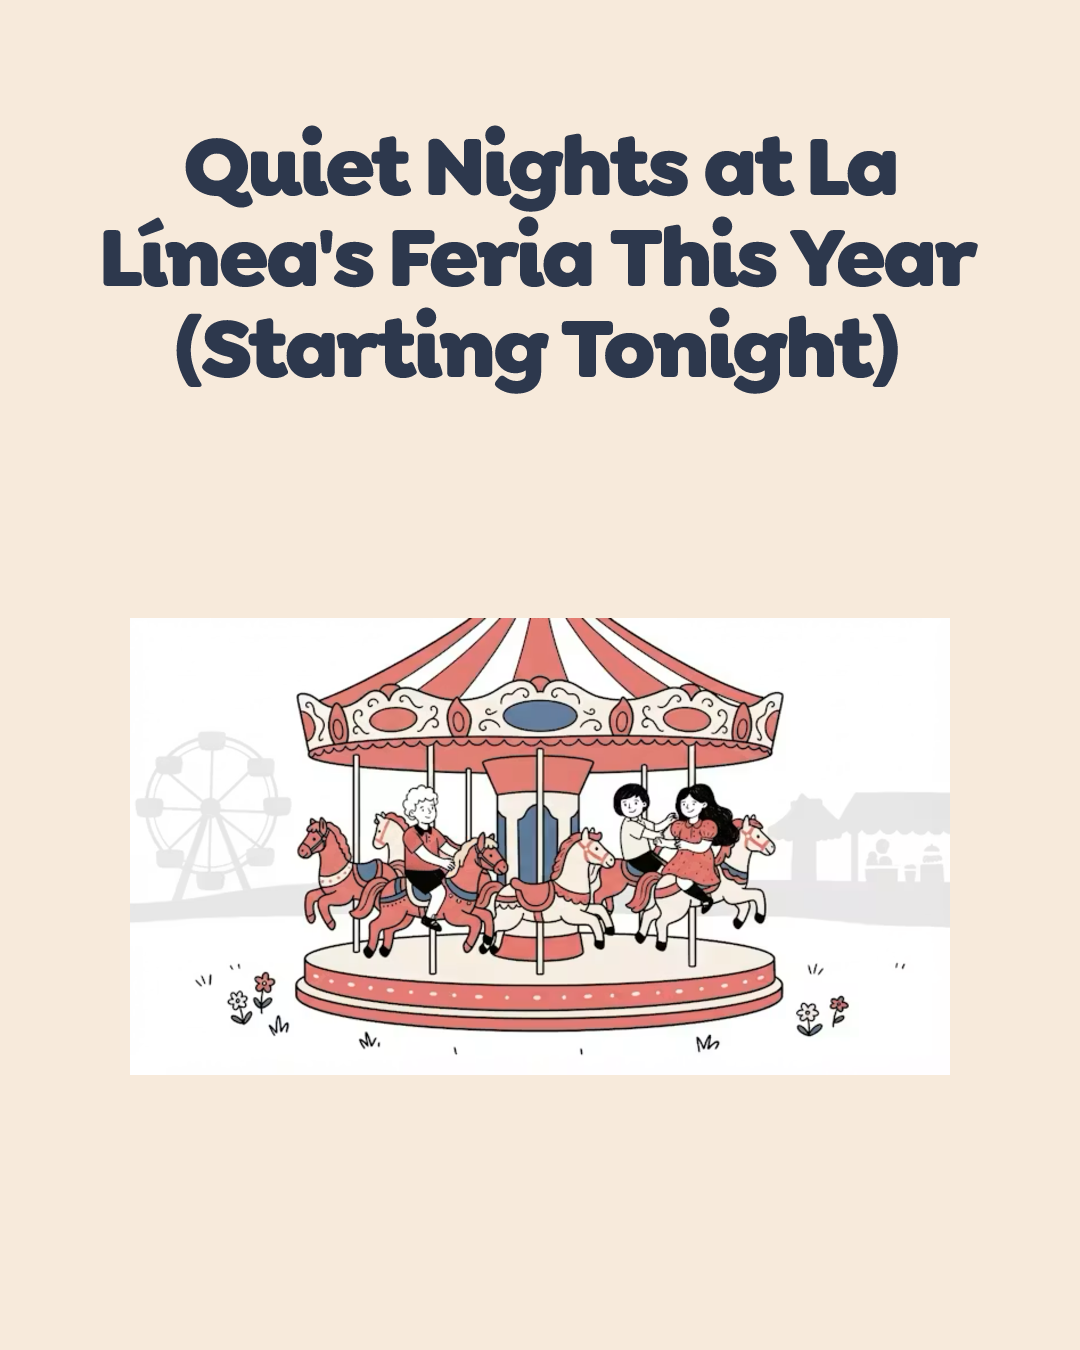
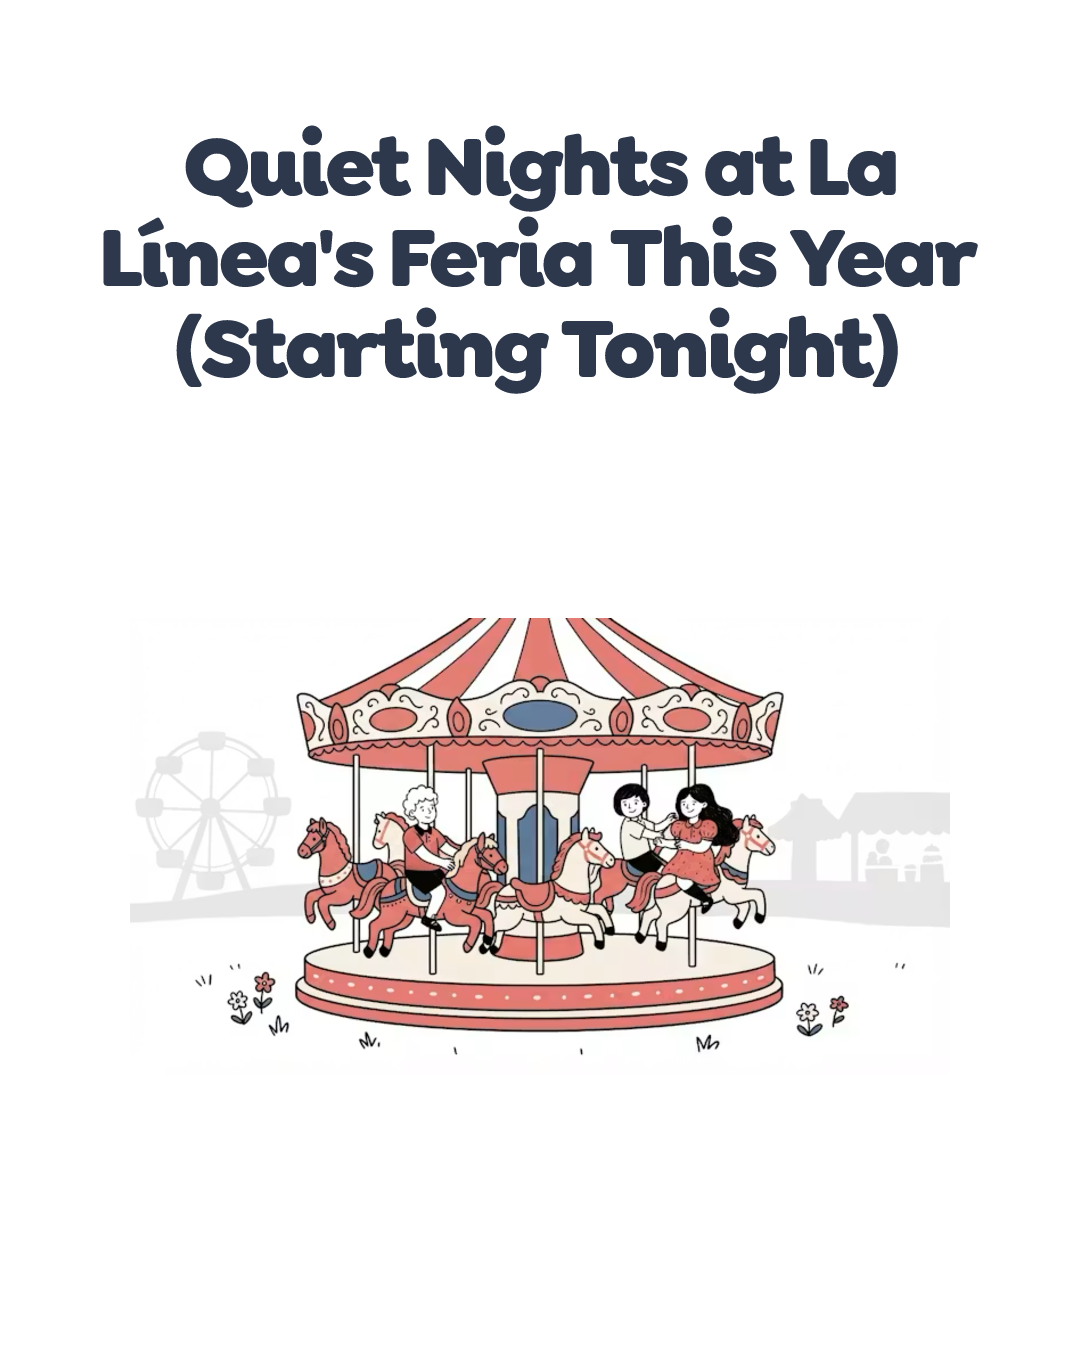
fix: restore blog header doodle and white social images

diff --git a/app/blog/[slug]/page.tsx b/app/blog/[slug]/page.tsx
@@ -85,6 +85,8 @@ export default async function BlogPostPage({ params }: BlogPostPageProps) {
   }
 
   const shareImageUrl = getBlogShareImageUrl(slug);
+  const headerImage =
+    post.inlineImage ?? (post.coverImage !== "/blog/default-cover.svg" ? post.coverImage : null);
 
   const articleHtml = replaceSchoolContactTable(
     replaceUniformNotesBox(
@@ -191,11 +193,11 @@ export default async function BlogPostPage({ params }: BlogPostPageProps) {
                   </p>
                 </div>
 
-                {post.inlineImage ? (
+                {headerImage ? (
                   <div className="mx-auto w-full max-w-[12rem] md:ml-auto md:mr-0 md:w-full md:max-w-none md:self-stretch">
                     <div className="relative aspect-square md:h-full md:min-h-[18rem] md:w-full lg:min-h-[19rem]">
                       <Image
-                        src={post.inlineImage}
+                        src={headerImage}
                         alt=""
                         fill
                         className="object-contain object-right"

diff --git a/app/share-previews/blog/[slug]/instagram/page.tsx b/app/share-previews/blog/[slug]/instagram/page.tsx
@@ -29,9 +29,9 @@ export default async function BlogInstagramPreviewPage({
   const previewImage = post.inlineImage ?? post.coverImage;
 
   return (
-    <main className="min-h-screen bg-beige text-navy">
+    <main className="min-h-screen bg-white text-navy">
       <section className="mx-auto flex min-h-screen w-full max-w-[1080px] flex-col px-20 py-20">
-        <div className="flex flex-1 flex-col rounded-[3rem] border border-white/70 bg-beige">
+        <div className="flex flex-1 flex-col rounded-[3rem] border border-white/70 bg-white">
           <div className="mx-auto flex w-full max-w-[840px] flex-1 flex-col items-center justify-center">
             <h1 className="text-center text-[4.4rem] font-bold leading-[1.02] tracking-[-0.04em] text-navy">
               {post.title}

diff --git a/app/blog/[slug]/instagram-image.tsx b/app/blog/[slug]/instagram-image.tsx
@@ -57,7 +57,7 @@ export default async function Image({ params }: BlogInstagramImageProps) {
           flexDirection: "column",
           alignItems: "center",
           justifyContent: "space-between",
-          background: "#f7eadb",
+          background: "#ffffff",
           color: "#2d384d",
           padding: "120px 90px 100px",
         }}

diff --git a/app/blog/[slug]/instagram-image/route.tsx b/app/blog/[slug]/instagram-image/route.tsx
@@ -49,7 +49,7 @@ export async function GET(
           flexDirection: "column",
           alignItems: "center",
           justifyContent: "space-between",
-          background: "#f7eadb",
+          background: "#ffffff",
           color: "#2d384d",
           padding: "120px 90px 100px",
         }}

diff --git a/app/blog/[slug]/opengraph-image.tsx b/app/blog/[slug]/opengraph-image.tsx
@@ -55,7 +55,7 @@ export default async function Image({ params }: BlogImageProps) {
           display: "flex",
           alignItems: "center",
           justifyContent: "space-between",
-          background: "#FFF0E3",
+          background: "#ffffff",
           color: "#2d384d",
           padding: "52px 64px",
           fontFamily: "Lexend",